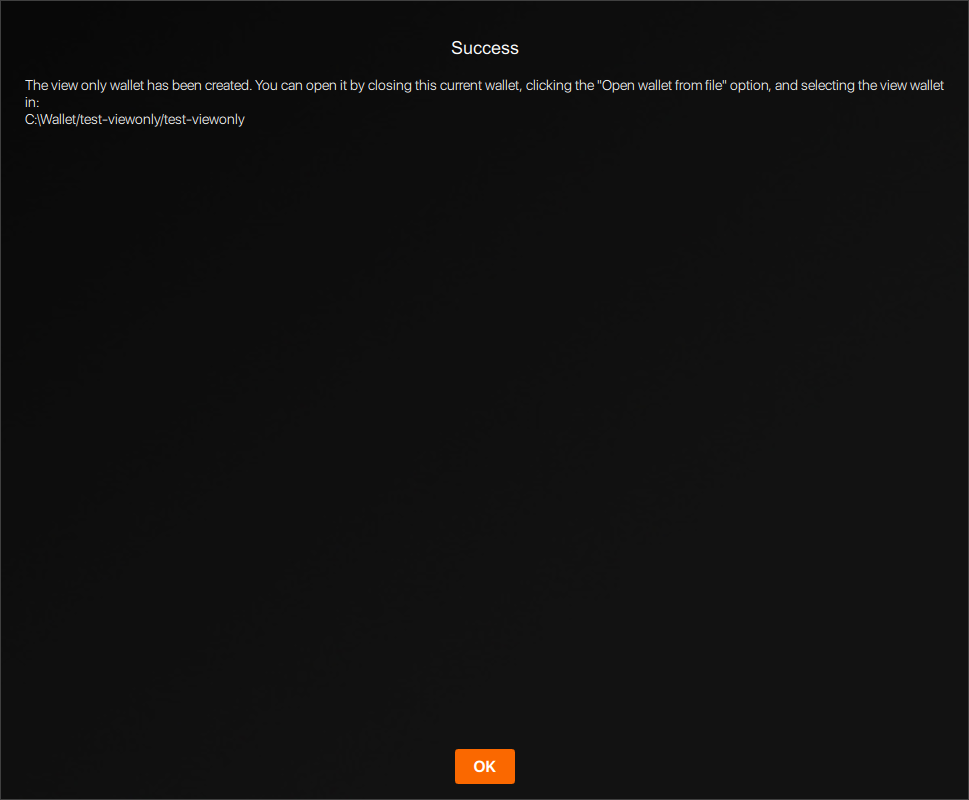
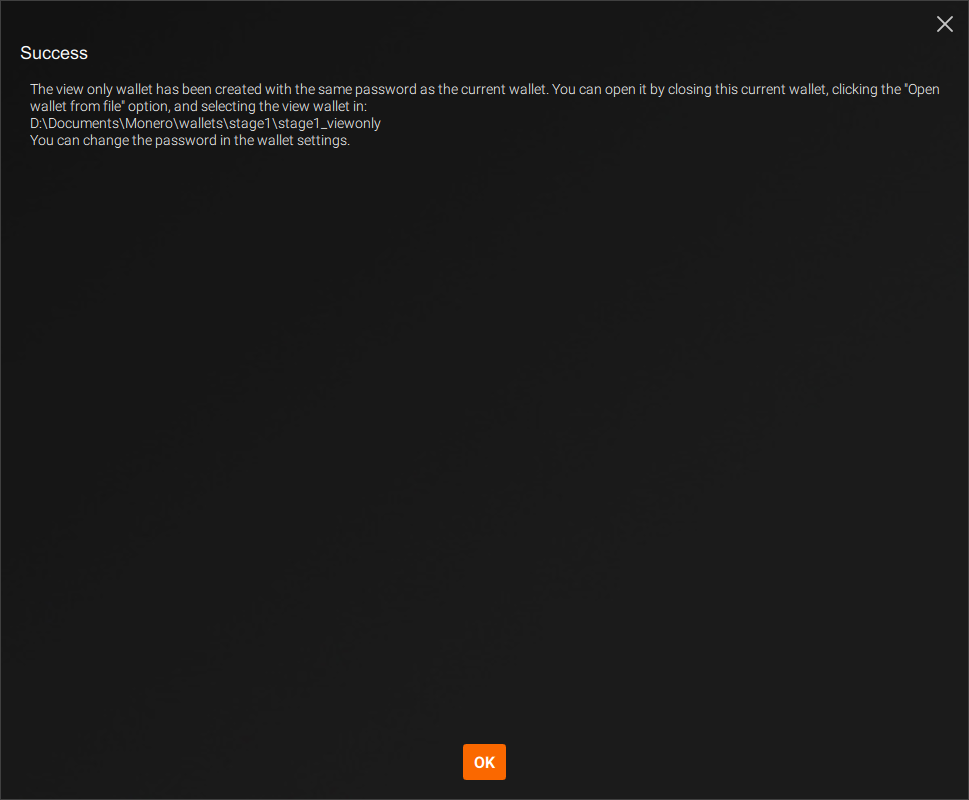
Update view-only user-guide to 0.14

Changed region(s): [[0.031, 0.0312, 0.9907, 0.1875], [0.4644, 0.9062, 0.5573, 1.0]]

diff --git a/_i18n/ru/resources/user-guides/view_only.md b/_i18n/ru/resources/user-guides/view_only.md
@@ -1,5 +1,5 @@
-{% assign version = '1.1.0' | split: '.' %}
-{% include disclaimer.html translated="true" version=page.version %}
+{% assign version = '1.3.0' | split: '.' %}
+{% include disclaimer.html translated="false" version=page.version %}
 Кошелек для просмотра может видеть только то, какие входящие транзакции принадлежат вам. С помощью него нельзя потратить ваши Monero. На самом деле он даже не может видеть исходящие транзакции из этого кошелька. Это делает кошелек для просмотра исключительно интересным в следующих целях:
 
 * Разработчикам, которые создают библиотеки для проверки платежей
@@ -21,13 +21,7 @@
 
 ![settings](png/view-only/settings.png)
 
-Нажмите `Create view only wallet` (Создать кошелек только для просмотра), затем укажите имя и путь для хранения кошелька, прежде чем нажимать стрелку `Right` (Вправо):
-
-![create-view-only](png/view-only/create-view-only.png)
-
-Дайте вашему кошельку надежный пароль и подтвердите его нажатием на `Create wallet` (Создать кошелек):
-
-![wallet-password](png/view-only/wallet-password.png)
+Click on `Create a view only wallet` > `Create wallet`, the wallet will be created within the same directory and using your current password.
 
 При необходимости дважды щелкните по окну `Success` (Успешно), чтобы скопировать сообщение, затем нажмите `ОК`, чтобы закрыть окно:
 

diff --git a/_i18n/ar/resources/user-guides/view_only.md b/_i18n/ar/resources/user-guides/view_only.md
@@ -1,5 +1,5 @@
-{% assign version = '1.1.0' | split: '.' %}
-{% include disclaimer.html translated="true" version=page.version %}
+{% assign version = '1.3.0' | split: '.' %}
+{% include disclaimer.html translated="false" version=page.version %}
 محفظه الرؤيه فقط يمكنها رؤيه المعاملات الوارده إلي المحفظه ولا يمكنها القيام بإنفاق الأموال, في الواقع لا يُمكنها حتي رؤيه المعاملات الصادره من هذه المحفظه. وهذا يجعلها مثيره للإهتمام لكل من 
 
 * المُطورين القائمين بكتابه مكتبات للتحقق من المدفوعات
@@ -21,13 +21,7 @@
 
 ![settings](png/view-only/settings.png)
 
-إختار 'إنشاء محفظه رؤيه فقط' وعيّن إسماً للمحفظه وإختار مكان حفظها ثم إضغط علي السهم 'الأيمن':
-
-![create-view-only](png/view-only/create-view-only.png)
-
-عيّن كلمه سر قويه لمحفظه الرؤيه وقم بتأكيدها قبل النقر علي 'إنشاء المحفظه':
-
-![wallet-password](png/view-only/wallet-password.png)
+Click on `Create a view only wallet` > `Create wallet`, the wallet will be created within the same directory and using your current password.
 
 يُمكنك إختيارياً النقر علي كلمه 'نجح' لنسخ الرساله , وبعد ذلك إنقر علي 'تم' لإغلاقها:
 

diff --git a/_i18n/fr/resources/user-guides/view_only.md b/_i18n/fr/resources/user-guides/view_only.md
@@ -1,4 +1,4 @@
-{% assign version = '1.2.0' | split: '.' %}
+{% assign version = '1.3.0' | split: '.' %}
 {% include disclaimer.html translated="true" version=page.version %}
 Un portefeuille d'audit ne peut que voir quelles transactions entrantes vous appartiennent. Il ne peut pas dépenser vos Moneroj, en fait il ne peut même pas voir les transactions sortantes de votre portefeuille. Cela rend le portefeuille d'audit particulièrement intéressant pour :
 
@@ -21,14 +21,8 @@ Ouvrez un portefeuille existant ou créez en un nouveau en utilisant `monero-wal
 
 ![settings](png/view-only/settings.png)
 
-Cliquez sur `Créer un portefeuille d'audit` > `Créer un portefeuille`, Puis donnez lui un nom et un emplacement de stockage avant de cliquer sur la flèche `Droite` :
+Cliquez sur `Créer un portefeuille d'audit` > `Créer un portefeuille`, le portefeuille sera créé dans le même répertoire et en utilisant le mot de passe actuel.
 
-![create-view-only](png/view-only/create-view-only.png)
-
-Donnez un mot de passe fort à votre portefeuille d'audit et confirmez-le avant de cliquer sur `Créer un portefeuille`:
-
-![wallet-password](png/view-only/wallet-password.png)
-
-Optionnellement, double-cliquez sur la fenêtre de `Succès` pour en copier le message, puis cliquez sur `OK` pour la fermer :
+Optionnellement, double-cliquez sur la fenêtre de `Succès` pour en copier le message, puis cliquez sur `OK` pour le fermer :
 
 ![Success](png/view-only/Success.png)

diff --git a/_i18n/pl/resources/user-guides/view_only.md b/_i18n/pl/resources/user-guides/view_only.md
@@ -1,5 +1,5 @@
-{% assign version = '1.2.0' | split: '.' %}
-{% include disclaimer.html translated="true" version=page.version %}
+{% assign version = '1.3.0' | split: '.' %}
+{% include disclaimer.html translated="false" version=page.version %}
 Portfel tylko do odczytu wyświetla jedynie twoje przychodzące transakcje. Nie może on dokonać żadnej płatności, nie może nawet wyświetlić żadnej transakcji wychodzącej. Portfel tylko do odczytu może być ciekawą opcją dla:
 
 * deweloperów, którzy tworzą biblioteki w celu sprawdzania poprawności płatności
@@ -21,13 +21,7 @@ Otwórz istniejący portfel lub stwórz nowy, za pomocą funkcji `monero-wallet-
 
 ![settings](png/view-only/settings.png)
 
-Kliknij w przycisk `Utwórz portfel tylko do podglądu` > `Utwórz portfel`, nadaj nazwę portfelowi i wybierz jego lokalizację, a następnie kliknij w strzałkę w `prawo`:
-
-![create-view-only](png/view-only/create-view-only.png)
-
-Nadaj swojemu portfelowi tylko do odczytu silne hasło i potwierdź je, a następnie kliknij w `Utwórz portfel`.:
-
-![wallet-password](png/view-only/wallet-password.png)
+Kliknij w przycisk `Utwórz portfel tylko do podglądu` > `Utwórz portfel`, the wallet will be created within the same directory and using your current password.
 
 Możesz dwukrotnie kliknąć w okno `Sukces`, aby skopiować wiadomość, a następnie kliknij `OK`, aby je zamknąć:
 

diff --git a/_i18n/nl/resources/user-guides/view_only.md b/_i18n/nl/resources/user-guides/view_only.md
@@ -1,5 +1,5 @@
-{% assign version = '1.2.0' | split: '.' %}
-{% include disclaimer.html translated="true" version=page.version %}
+{% assign version = '1.3.0' | split: '.' %}
+{% include disclaimer.html translated="false" version=page.version %}
 Met een alleen-lezen portemonnee kun je alleen zien welke binnenkomende transacties van jou zijn. Je kunt er geen Monero mee uitgeven. Sterker nog, je kunt zelfs uitgaande transacties vanuit deze portemonnee niet zien. Alleen-lezen portemonnees zijn daarom interessant voor:
 
 * Ontwikkelaars die libraries voor het valideren van betalingen programmeren
@@ -21,13 +21,7 @@ Open een bestaande portemonnee of maak een nieuwe met `monero-wallet-gui`. Ga in
 
 ![settings](png/view-only/settings.png)
 
-Klik op `Maak een alleen-lezen portemonnee aan` > `Portemonnee maken`, geef een naam en een opslaglocatie op, en klik daarna op de pijl naar rechts:
-
-![create-view-only](png/view-only/create-view-only.png)
-
-Geef je alleen-lezen portemonnee een sterk wachtwoord en bevestig dit voordat je op `Portemonnee maken` klikt:
-
-![wallet-password](png/view-only/wallet-password.png)
+Klik op `Maak een alleen-lezen portemonnee aan` > `Portemonnee maken`, the wallet will be created within the same directory and using your current password.
 
 Dubbelklik eventueel op het scherm `Geslaagd` om het bericht te kopiëren en klik vervolgens op `OK` om het te sluiten:
 

diff --git a/_i18n/es/resources/user-guides/view_only.md b/_i18n/es/resources/user-guides/view_only.md
@@ -1,5 +1,5 @@
-{% assign version = '1.2.0' | split: '.' %}
-{% include disclaimer.html translated="true" version=page.version %}
+{% assign version = '1.3.0' | split: '.' %}
+{% include disclaimer.html translated="false" version=page.version %}
 Un monedero de visualización solamente puede ver qué transacciones de entrada te pertenecen. No puede utilizar nada de tu Monero, de hecho ni siquiera puede ver las transacciones de salida del monedero. Esto hace a los monederos de sólo visualización interesantes para
 
 * Desarrolladores escribiendo librerías para validar pagos
@@ -21,13 +21,7 @@ Abre un monedero existente o crea uno nuevo usando `monero-wallet-gui`. En el ej
 
 ![settings](png/view-only/settings.png)
 
-Haz clic en `Crear un monedero de sólo visualización` > `Crear monedero`, y dale un nombre y ubicación antes de hacer clic en la flecha de `Siguiente`:
-
-![create-view-only](png/view-only/create-view-only.png)
-
-Da a tu monedero de visualización una contraseña fuerte y confírmala antes de hacer clic en `Crear monedero`:
-
-![wallet-password](png/view-only/wallet-password.png)
+Haz clic en `Crear un monedero de sólo visualización` > `Crear monedero`, the wallet will be created within the same directory and using your current password.
 
 Opcionalmente, haz doble clic en la ventana `Éxito` para copiar el mensaje, y haz clic en `OK` para cerrarlo:
 

diff --git a/_i18n/it/resources/user-guides/view_only.md b/_i18n/it/resources/user-guides/view_only.md
@@ -1,4 +1,4 @@
-{% assign version = '1.2.0' | split: '.' %}
+{% assign version = '1.3.0' | split: '.' %}
 {% include disclaimer.html translated="false" version=page.version %}
 A view-only wallet can only see which incoming transactions belong to you. It can not spend any of your Monero, in fact it can't even see outgoing transactions from this wallet. This makes view-only wallets particularly interesting for
 
@@ -21,13 +21,7 @@ Open an existing wallet or create a new one using `monero-wallet-gui`. In the wa
 
 ![settings](png/view-only/settings.png)
 
-Click on `Crea un portafoglio Solo-visualizzazione` > `Crea portafoglio`, then give it a name and a storage location before clicking the `Right` arrow:
-
-![create-view-only](png/view-only/create-view-only.png)
-
-Give your view-only wallet a strong password and confirm it before clicking on `Create wallet`:
-
-![wallet-password](png/view-only/wallet-password.png)
+Click on `Create a view only wallet` > `Create wallet`, the wallet will be created within the same directory and using your current password.
 
 Optionally, double-click the `Success` windows to copy the message, then click `OK` to close it:
 

diff --git a/_i18n/de/resources/user-guides/view_only.md b/_i18n/de/resources/user-guides/view_only.md
@@ -1,4 +1,4 @@
-{% assign version = '1.2.0' | split: '.' %}
+{% assign version = '1.3.0' | split: '.' %}
 {% include disclaimer.html translated="false" version=page.version %}
 A view-only wallet can only see which incoming transactions belong to you. It can not spend any of your Monero, in fact it can't even see outgoing transactions from this wallet. This makes view-only wallets particularly interesting for
 
@@ -21,13 +21,7 @@ Open an existing wallet or create a new one using `monero-wallet-gui`. In the wa
 
 ![settings](png/view-only/settings.png)
 
-Click on `Create a view only wallet` > `Create wallet`, then give it a name and a storage location before clicking the `Right` arrow:
-
-![create-view-only](png/view-only/create-view-only.png)
-
-Give your view-only wallet a strong password and confirm it before clicking on `Create wallet`:
-
-![wallet-password](png/view-only/wallet-password.png)
+Click on `Create a view only wallet` > `Create wallet`, the wallet will be created within the same directory and using your current password.
 
 Optionally, double-click the `Success` windows to copy the message, then click `OK` to close it:
 

diff --git a/_i18n/pt-br/resources/user-guides/view_only.md b/_i18n/pt-br/resources/user-guides/view_only.md
@@ -1,4 +1,4 @@
-{% assign version = '1.2.0' | split: '.' %}
+{% assign version = '1.3.0' | split: '.' %}
 {% include disclaimer.html translated="false" version=page.version %}
 A view-only wallet can only see which incoming transactions belong to you. It can not spend any of your Monero, in fact it can't even see outgoing transactions from this wallet. This makes view-only wallets particularly interesting for
 
@@ -21,13 +21,7 @@ Open an existing wallet or create a new one using `monero-wallet-gui`. In the wa
 
 ![settings](png/view-only/settings.png)
 
-Click on `Create a view only wallet` > `Create wallet`, then give it a name and a storage location before clicking the `Right` arrow:
-
-![create-view-only](png/view-only/create-view-only.png)
-
-Give your view-only wallet a strong password and confirm it before clicking on `Create wallet`:
-
-![wallet-password](png/view-only/wallet-password.png)
+Click on `Create a view only wallet` > `Create wallet`, the wallet will be created within the same directory and using your current password.
 
 Optionally, double-click the `Success` windows to copy the message, then click `OK` to close it:
 

diff --git a/_i18n/en/resources/user-guides/view_only.md b/_i18n/en/resources/user-guides/view_only.md
@@ -1,4 +1,4 @@
-{% assign version = '1.2.0' | split: '.' %}
+{% assign version = '1.3.0' | split: '.' %}
 {% include disclaimer.html translated="true" version=page.version %}
 A view-only wallet can only see which incoming transactions belong to you. It can not spend any of your Monero, in fact it can't even see outgoing transactions from this wallet. This makes view-only wallets particularly interesting for
 
@@ -21,13 +21,7 @@ Open an existing wallet or create a new one using `monero-wallet-gui`. In the wa
 
 ![settings](png/view-only/settings.png)
 
-Click on `Create a view only wallet` > `Create wallet`, then give it a name and a storage location before clicking the `Right` arrow:
-
-![create-view-only](png/view-only/create-view-only.png)
-
-Give your view-only wallet a strong password and confirm it before clicking on `Create wallet`:
-
-![wallet-password](png/view-only/wallet-password.png)
+Click on `Create a view only wallet` > `Create wallet`, the wallet will be created within the same directory and using your current password.
 
 Optionally, double-click the `Success` windows to copy the message, then click `OK` to close it:
 

diff --git a/resources/user-guides/view_only.md b/resources/user-guides/view_only.md
@@ -4,7 +4,7 @@ title: "View Only Wallets"
 permalink: /resources/user-guides/view_only.html
 mainVersion:
   - "1"
-  - "2"
+  - "3"
   - "0"
 ---
 
